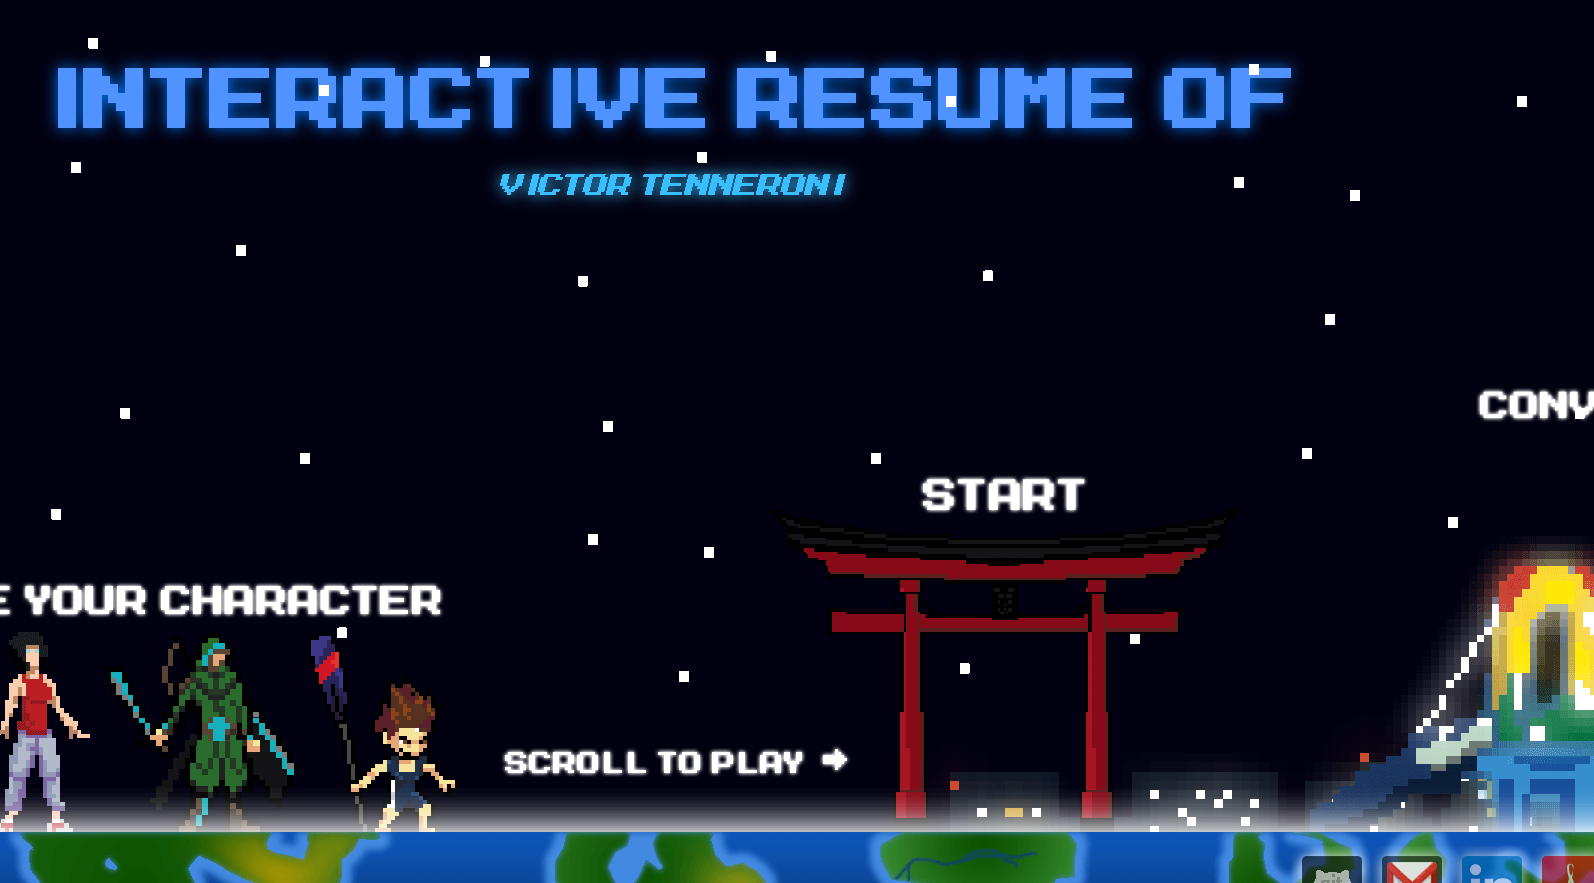
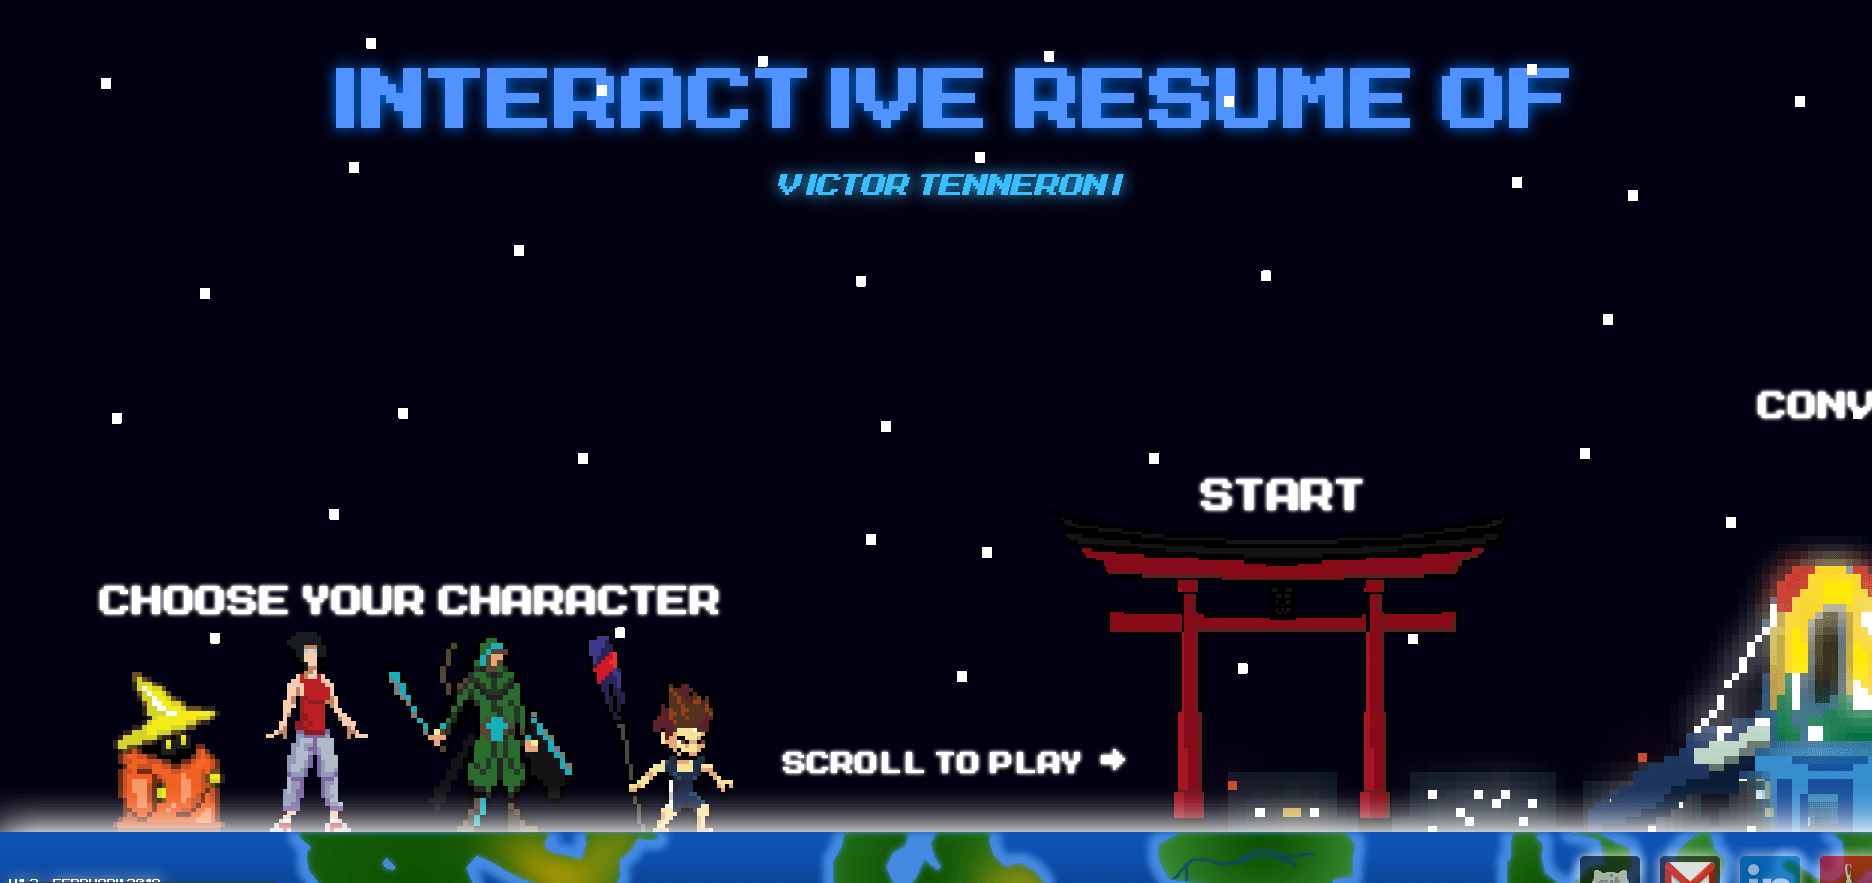
small fixes

diff --git a/app/components/ProjectsSection.js b/app/components/ProjectsSection.js
@@ -90,8 +90,9 @@ const projectsData = [
   },
   {
     id: 5,
-    title: "NFT Marketplace",
-    description: "Powered by Infura",
+    title: "Infura-powered Kickstarter",
+    description:
+      "Stack: Solidity, Infura, Web3.js, Next.js, Truffle, Ganache, Mocha.",
     image: "/images/projects/nftmarketplace.png",
     tag: ["Engineering", "All"],
     gitUrl: "https://github.com/vtennero/CrowdCoinStarter2",
@@ -99,22 +100,23 @@ const projectsData = [
   },
   {
     id: 6,
-    title: "Autonomous Ridehailing App",
-    description: "description of the challenge and result",
+    title: "Full-Stack Ridehailing App for Autonomous Cab Navya",
+    description:
+      "Representend Navya (EPA:NAVYA) at the 2019 Consumer Electronics Show in Las Vegas",
     image: "/images/projects/navya.png",
     tag: ["Engineering", "All"],
     gitUrl: "",
     previewUrl: "https://www.youtube.com/watch?v=dFgFo5qkp5M",
   },
-  {
-    id: 7,
-    title: "Kawaguchiko",
-    description: "Oil Painting",
-    image: "/images/projects/kawaguchiko.png",
-    tag: ["Art", "All"],
-    gitUrl: "",
-    previewUrl: "https://art-gallery-ext.vercel.app/",
-  },
+  // {
+  //   id: 7,
+  //   title: "Kawaguchiko",
+  //   description: "Oil Painting",
+  //   image: "/images/projects/kawaguchiko.png",
+  //   tag: ["Art", "All"],
+  //   gitUrl: "",
+  //   previewUrl: "https://art-gallery-ext.vercel.app/",
+  // },
   {
     id: 8,
     title: "Investment & Exit of AI Micro-Weather Forecasting Meteoswift",
@@ -125,15 +127,15 @@ const projectsData = [
     previewUrl:
       "https://www.trailstonegroup.com/latest-news/Trailstone-acquires-meteo-swift-to-strengthen-AI-and-forecasting-capabilities",
   },
-  // {
-  //   id: 12,
-  //   title: "The Fishermen",
-  //   description: "Oil Painting",
-  //   image: "/images/projects/fishermen.png",
-  //   tag: ["Art", "All"],
-  //   gitUrl: "",
-  //   previewUrl: "https://art-gallery-ext.vercel.app/",
-  // },
+  {
+    id: 12,
+    title: "The Fishermen",
+    description: "Oil Painting",
+    image: "/images/projects/fishermen.png",
+    tag: ["Art", "All"],
+    gitUrl: "",
+    previewUrl: "https://art-gallery-ext.vercel.app/",
+  },
   {
     id: 10,
     title: "HEC Paris Alumni in Singapore",
@@ -166,7 +168,8 @@ const projectsData = [
   {
     id: 20,
     title: "Interactive Gamified Resume",
-    description: "",
+    description:
+      "My first Web project in 2016: an online interactive, gamified resume using javascript parallax scrolling & hand-made pixel-art graphics",
     image: "/images/projects/2016website.png",
     tag: ["Engineering", "All"],
     gitUrl: "",

diff --git a/app/components/AboutSection.js b/app/components/AboutSection.js
@@ -58,8 +58,27 @@ const AboutSection = () => {
         <Image src="/images/about-image.png" width={500} height={500}></Image>
         <div className="mt-4 md:mt-0 text-left flex flex-col h-full">
           <h2 className="text-4xl font-bold text-white mb-4">About Me</h2>
-          <p className="text-base md:text-lg">I Am God.</p>
-          <div className="flex flex-row justify-start mt-8">
+          <p className="text-base md:text-lg text-justify mb-1">
+            It all started in Japan.
+          </p>
+          <p className="text-base md:text-lg text-justify mb-1">
+            My Japanese calligraphy teacher taught me the importance of
+            creativity and attention to detail.
+          </p>
+          <p className="text-base md:text-lg text-justify mb-1">
+            My stint at Keio University's Rowing Club taught me the importance
+            of Community Building.
+          </p>
+          <p className="text-base md:text-lg text-justify mb-1">
+            My passion for software engineering & technology started in
+            Akihabara Electric Town where I would build computers out of spare
+            parts.
+          </p>
+          <p className="text-base md:text-lg text-justify mb-1">
+            Now I'm a Venture Capitalist in Singapore investing in AI and
+            climate tech.
+          </p>
+          {/* <div className="flex flex-row justify-start mt-8">
             <TabButton
               selectTab={() => handleTabChange("skills")}
               active={tab === "skills"}
@@ -81,7 +100,7 @@ const AboutSection = () => {
           </div>
           <div className="mt-8">
             {TAB_DATA.find((t) => t.id === tab).content}{" "}
-          </div>
+          </div> */}
         </div>
       </div>
     </section>

diff --git a/app/components/ProjectCard.js b/app/components/ProjectCard.js
@@ -6,7 +6,11 @@ const ProjectCard = ({ imgUrl, title, description, gitUrl, previewUrl }) => {
     <div>
       <div
         className="h-52 md:h-72 rounded-t-xl relative group"
-        style={{ background: `url(${imgUrl})`, backgroundSize: "cover" }}
+        style={{
+          background: `url(${imgUrl})`,
+          backgroundSize: "cover",
+          backgroundPosition: "center",
+        }}
       >
         <div className="overlay items-center justify-center absolute top-0 left-0 w-full h-full bg-[#181818] bg-opacity-0 hidden group-hover:flex group-hover:bg-opacity-80 transition-all duration-500">
           {gitUrl && (

diff --git a/app/components/HeroSection.js b/app/components/HeroSection.js
@@ -30,7 +30,9 @@ const HeroSection = () => {
               repeat={Infinity}
             />
           </h1>
-          <p className="text-[#ADB7BE] sm:text-lg lg:text-xl mb-6">lorem</p>
+          <p className="text-[#ADB7BE] sm:text-lg lg:text-xl mb-6">
+            {/* Venture Capitalist Based in Singapore */}
+          </p>
           <div>
             <button className="w-full sm:w-fit  px-6 py-3 rounded-full mr-4 bg-white hover:bg-slate-200 text-white bg-gradient-to-br from-primary-500 to-secondary-700">
               {/* Hire Me */}

diff --git a/app/components/ProjectPageComponent.js b/app/components/ProjectPageComponent.js
@@ -30,7 +30,7 @@ const ProjectPageComponent = () => {
         </video>
         <div className="mt-4 md:mt-0 text-left flex flex-col h-full">
           <h2 className="text-4xl font-bold text-white mb-4">About Me</h2>
-          <p className="text-base md:text-lg">I Am God.</p>
+          <p className="text-base md:text-lg text-justify">I Am God.</p>
           <div className="flex flex-row justify-start mt-8"></div>
           <div className="mt-8"></div>
         </div>

diff --git a/app/components/Footer.js b/app/components/Footer.js
@@ -2,7 +2,7 @@ const Footer = () => {
   return (
     <footer className="footer border z-10 border-t-[#33353F]  border-l-transparent border-r-transparent text-white">
       <div className="container p-12 flex justify-between">
-        <span>LOGO</span>
+        <span>勝男</span>
         <p className="text-slate-600">All rights reserved.</p>
       </div>
     </footer>
